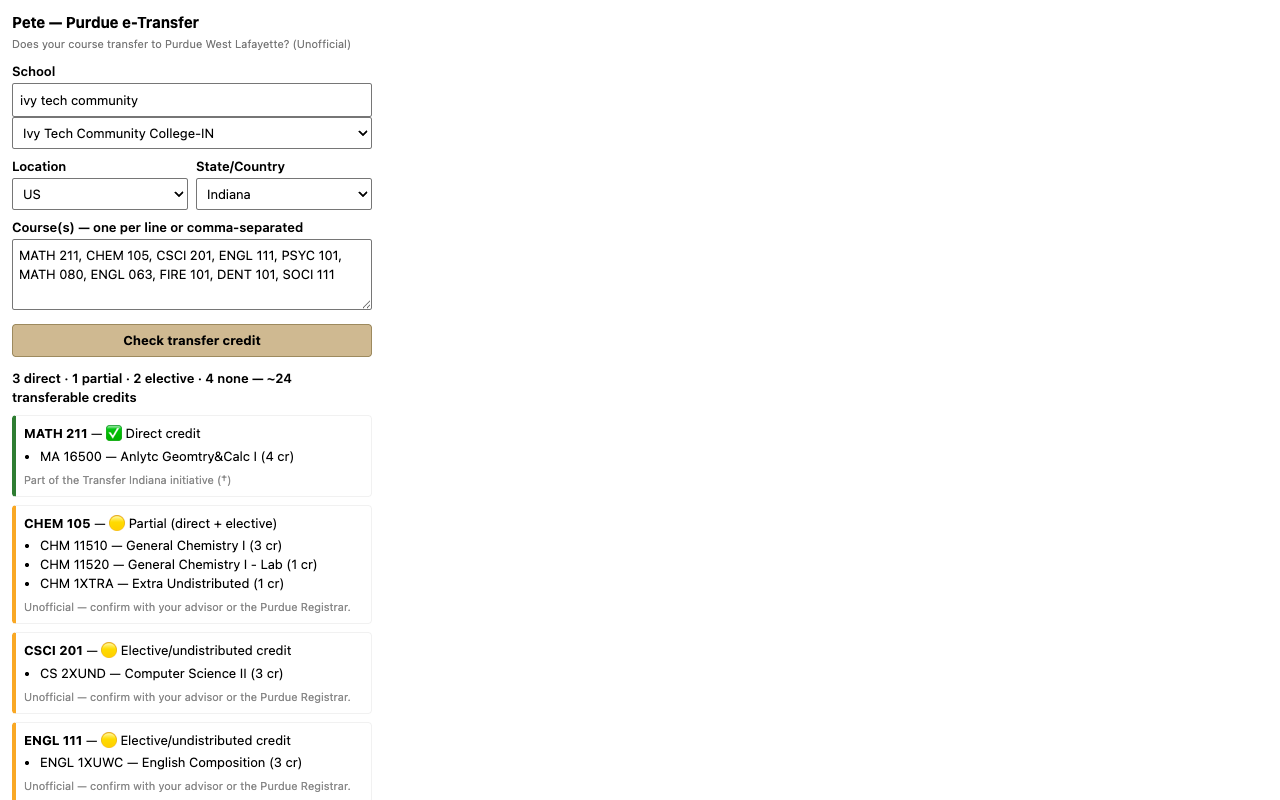
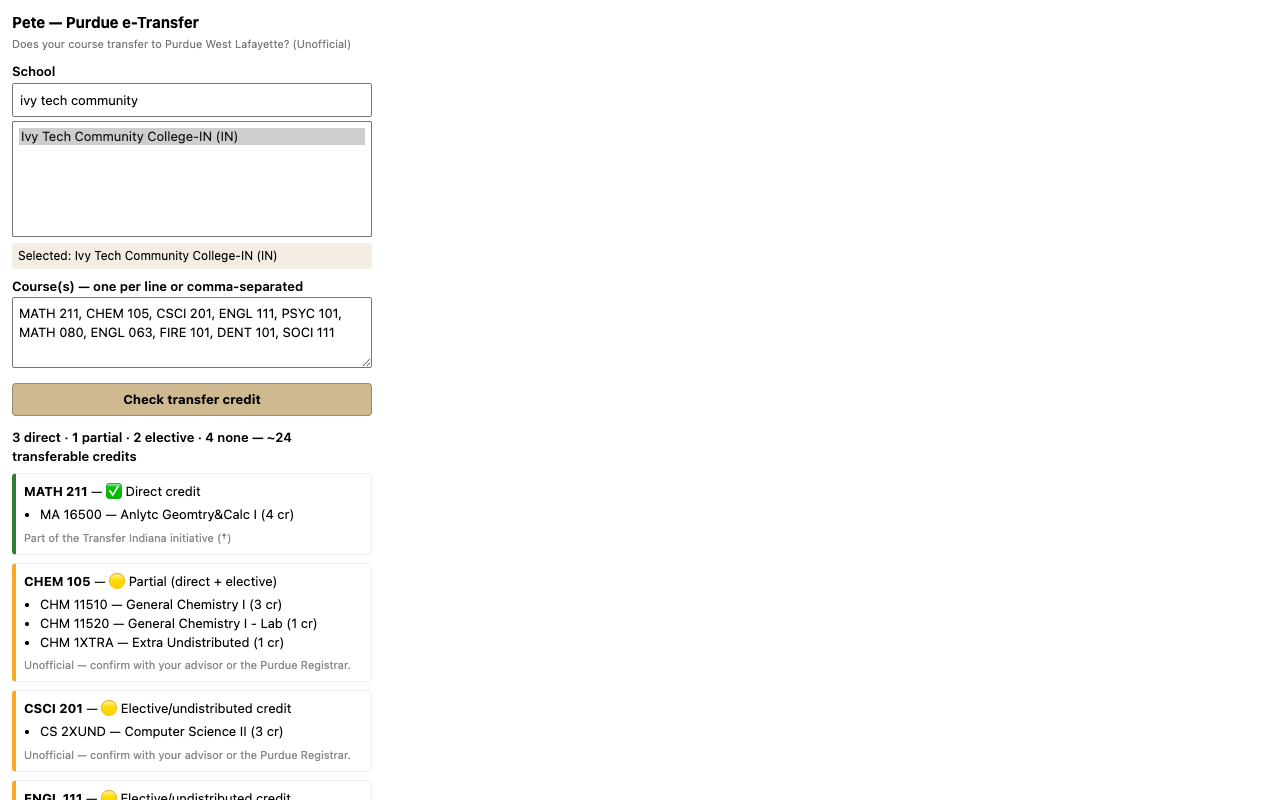
fix: school picker race + third-party catalog host detection; simplify picker UI; v0.3.0
- popup no longer fetches state list on open; picker runs off the bundled index
- async auto-detect never overwrites a search the user has typed (the clobber bug)
- removed Location/State selects — each school entry carries its own; top match
  auto-selected with a visible 'Selected: ...' confirmation
- domainToSchool resolves courseleaf/coursedog/smartcatalogiq/acalog hosts back to
  the school (UND's catalog is und-public.courseleaf.com)
- 101 unit tests + 18 E2E green

Changed region(s): [[0.0, 0.2812, 0.3125, 1.0], [0.0, 0.1562, 0.3125, 0.25]]

diff --git a/src/popup.ts b/src/popup.ts
@@ -5,33 +5,31 @@ import type { TransferReport, TransferResult } from "./types";
 
 const $ = <T extends HTMLElement>(id: string) => document.getElementById(id) as T;
 
-const locationSel = $<HTMLSelectElement>("location");
-const stateSel = $<HTMLSelectElement>("state");
 const schoolSel = $<HTMLSelectElement>("school");
 const schoolSearch = $<HTMLInputElement>("schoolSearch");
+const selectedDiv = $<HTMLDivElement>("selected");
 const coursesTa = $<HTMLTextAreaElement>("courses");
 const checkBtn = $<HTMLButtonElement>("check");
 const resultsDiv = $<HTMLDivElement>("results");
 
-/** Global search over the bundled index — every school Purdue articulates from. */
+/**
+ * The picker runs entirely off the bundled index — no network on open. The old
+ * version fetched the state list from Purdue and re-rendered when it landed,
+ * which silently wiped whatever the user had already typed (bug #12).
+ * Each school entry carries its own location/state, so the user never picks them.
+ */
 let visibleSchools: IndexedSchool[] = [];
+let selectedSchool: IndexedSchool | null = null;
+let defaultState = "IN";
 
-async function loadStates(): Promise<void> {
-  const res = await sendBg({ kind: "AJAX_LIST", type: "states", values: [locationSel.value] });
-  if ("list" in res && res.ok) {
-    stateSel.innerHTML = "";
-    for (const s of res.list) {
-      const o = document.createElement("option");
-      o.value = s.value;
-      o.textContent = s.label;
-      if (s.value === "IN") o.selected = true;
-      stateSel.append(o);
-    }
+function showSelection(): void {
+  if (selectedSchool) {
+    selectedDiv.className = "selected";
+    selectedDiv.textContent = `Selected: ${selectedSchool.n} (${selectedSchool.s})`;
+  } else {
+    selectedDiv.className = "selected none";
+    selectedDiv.textContent = "No school selected";
   }
-}
-
-function schoolsForCurrentState(): IndexedSchool[] {
-  return SCHOOL_INDEX.filter((e) => e.l === locationSel.value && e.s === stateSel.value);
 }
 
 function renderSchools(list: IndexedSchool[]): void {
@@ -40,21 +38,22 @@ function renderSchools(list: IndexedSchool[]): void {
   list.forEach((e, i) => {
     const o = document.createElement("option");
     o.value = String(i);
-    o.textContent = e.s === stateSel.value ? e.n : `${e.n} (${e.s})`;
+    o.textContent = `${e.n} (${e.s})`;
     schoolSel.append(o);
   });
+  // Auto-select the top match so "type then press Check" just works — users
+  // reasonably expect the visible first result to be the one used.
+  if (list.length > 0) {
+    schoolSel.selectedIndex = 0;
+    selectedSchool = list[0] ?? null;
+  } else {
+    selectedSchool = null;
+  }
+  showSelection();
 }
 
-/** Selecting a search hit syncs location + state so the lookup query is correct. */
-async function syncToSelectedSchool(): Promise<IndexedSchool | null> {
-  const e = visibleSchools[Number(schoolSel.value)];
-  if (!e) return null;
-  if (locationSel.value !== e.l) {
-    locationSel.value = e.l;
-    await loadStates();
-  }
-  stateSel.value = e.s;
-  return e;
+function defaultList(): IndexedSchool[] {
+  return SCHOOL_INDEX.filter((e) => e.l === "US" && e.s === defaultState);
 }
 
 function parseCourseLines(text: string): { subject: string; number: string }[] {
@@ -112,11 +111,13 @@ function render(report: TransferReport): void {
 
 checkBtn.addEventListener("click", async () => {
   const courses = parseCourseLines(coursesTa.value);
-  const school = await syncToSelectedSchool();
+  const school = selectedSchool;
   const schoolCode = school?.c ?? "";
   const schoolName = school?.n ?? "";
   if (!courses.length || !schoolCode) {
-    resultsDiv.innerHTML = `<div class="err">Pick a school and enter at least one course like “MATH 211”.</div>`;
+    resultsDiv.innerHTML = `<div class="err">${
+      schoolCode ? "Enter at least one course like “MATH 211”." : "Search for and select your school first."
+    }</div>`;
     return;
   }
   checkBtn.disabled = true;
@@ -138,31 +139,29 @@ checkBtn.addEventListener("click", async () => {
 
 schoolSearch.addEventListener("input", () => {
   const q = schoolSearch.value.trim();
-  renderSchools(q ? searchSchoolIndex(q) : schoolsForCurrentState());
+  renderSchools(q ? searchSchoolIndex(q) : defaultList());
 });
-locationSel.addEventListener("change", async () => {
-  await loadStates();
-  renderSchools(schoolsForCurrentState());
+
+schoolSel.addEventListener("change", () => {
+  selectedSchool = visibleSchools[schoolSel.selectedIndex] ?? null;
+  showSelection();
 });
-stateSel.addEventListener("change", () => renderSchools(schoolsForCurrentState()));
 
 void (async () => {
-  // Pre-fill from active tab: detected school + any highlighted course text
-  const [tab] = await chrome.tabs.query({ active: true, currentWindow: true });
-  await loadStates();
-  renderSchools(schoolsForCurrentState());
-  if (tab?.url) {
-    try {
-      const host = new URL(tab.url).hostname;
-      const res = await sendBg({ kind: "DETECT_SCHOOL", hostname: host });
-      if ("school" in res && res.ok && res.school) {
-        locationSel.value = res.school.location;
-        await loadStates();
-        stateSel.value = res.school.state;
-        renderSchools(schoolsForCurrentState());
-        const i = visibleSchools.findIndex((e) => e.c === res.school!.code);
-        if (i >= 0) schoolSel.value = String(i);
-      }
-    } catch { /* non-fatal */ }
+  // Render immediately from the bundled index; auto-detection only refines it,
+  // and never overwrites a list the user has already searched.
+  renderSchools(defaultList());
+  try {
+    const [tab] = await chrome.tabs.query({ active: true, currentWindow: true });
+    if (!tab?.url) return;
+    const res = await sendBg({ kind: "DETECT_SCHOOL", hostname: new URL(tab.url).hostname });
+    if (!("school" in res) || !res.ok || !res.school) return;
+    if (schoolSearch.value.trim() !== "") return; // user is already typing — leave them alone
+    const hit = SCHOOL_INDEX.find((e) => e.c === res.school!.code) ?? null;
+    if (!hit) return;
+    defaultState = hit.s;
+    renderSchools([hit, ...SCHOOL_INDEX.filter((e) => e.l === hit.l && e.s === hit.s && e.c !== hit.c)]);
+  } catch {
+    /* auto-detect is a convenience; the picker works without it */
   }
 })();

diff --git a/src/popup.html b/src/popup.html
@@ -24,6 +24,10 @@
   .eq { margin: 4px 0 0 0; padding-left: 16px; }
   .caveats { color: #888; font-size: 11px; margin-top: 6px; }
   .summary { font-weight: 600; margin-bottom: 8px; }
+  select[size] { margin-top: 4px; }
+  .selected { margin-top: 4px; font-size: 12px; padding: 4px 6px; border-radius: 3px;
+    background: rgba(207,185,145,.25); }
+  .selected.none { background: none; color: #999; font-style: italic; }
   .disclaimer { margin-top: 10px; font-size: 11px; color: #a15c00; }
   .err { color: #c62828; }
 </style>
@@ -32,19 +36,10 @@
   <h1>Pete — Purdue e-Transfer</h1>
   <div class="sub">Does your course transfer to Purdue West Lafayette? (Unofficial)</div>
 
-  <label for="school">School</label>
-  <input id="schoolSearch" placeholder="Search school (e.g. Ivy Tech)…" autocomplete="off" />
-  <select id="school" size="1"></select>
-  <div class="row">
-    <div>
-      <label for="location">Location</label>
-      <select id="location"><option value="US" selected>US</option><option value="Outside US">Outside US</option></select>
-    </div>
-    <div>
-      <label for="state">State/Country</label>
-      <select id="state"><option value="IN" selected>Indiana</option></select>
-    </div>
-  </div>
+  <label for="schoolSearch">School</label>
+  <input id="schoolSearch" placeholder="Search 3,000+ schools — e.g. Ivy Tech, North Dakota…" autocomplete="off" />
+  <select id="school" size="6"></select>
+  <div id="selected" class="selected">No school selected</div>
 
   <label for="courses">Course(s) — one per line or comma-separated</label>
   <textarea id="courses" rows="3" placeholder="MATH 211&#10;CSCI 201&#10;CHEM 105"></textarea>

diff --git a/src/school-map.ts b/src/school-map.ts
@@ -16,6 +16,27 @@ export interface SchoolEntry {
 
 const DOMAIN_MAP: Record<string, SchoolEntry> = rawMap as Record<string, SchoolEntry>;
 
+/**
+ * Third-party catalog platforms that host hundreds of schools' catalogs on
+ * their own domain — e.g. UND's catalog is und-public.courseleaf.com, so the
+ * school's own .edu never appears in the URL.
+ */
+const CATALOG_HOSTS = [
+  "courseleaf.com",
+  "smartcatalogiq.com",
+  "coursedog.com",
+  "acalog.com",
+  "digarc.com",
+  "elluciancloud.com",
+];
+
+/** "und-public" -> "und"; "catalog-ttu" -> "ttu" */
+function catalogSlug(label: string): string {
+  return label
+    .replace(/^(catalog|bulletin|courses?)[-_]/, "")
+    .replace(/[-_](public|next|prod|test|dev|catalog|bulletin|courses?|acalog)$/, "");
+}
+
 /** Match a hostname (or any subdomain of it) to a known school. */
 export function domainToSchool(hostname: string): SchoolEntry | null {
   const h = hostname.toLowerCase().replace(/^www\./, "");
@@ -23,6 +44,12 @@ export function domainToSchool(hostname: string): SchoolEntry | null {
   for (let i = 0; i < parts.length - 1; i++) {
     const candidate = parts.slice(i).join(".");
     const hit = DOMAIN_MAP[candidate];
+    if (hit) return hit;
+  }
+  // Third-party catalog host: derive the school slug and retry as <slug>.edu
+  if (CATALOG_HOSTS.some((host) => h.endsWith(`.${host}`)) && parts[0]) {
+    const slug = catalogSlug(parts[0]);
+    const hit = DOMAIN_MAP[`${slug}.edu`];
     if (hit) return hit;
   }
   return null;

diff --git a/tests/school-map.test.ts b/tests/school-map.test.ts
@@ -17,6 +17,18 @@ describe("domainToSchool", () => {
     expect(domainToSchool("catalog.umich.edu")?.code).toBe("001839");
     expect(domainToSchool("www.gatech.edu")?.code).toBe("005248");
   });
+  // Third-party catalog platforms host the actual course pages (bug #13)
+  it("resolves third-party catalog hosts back to the school", () => {
+    expect(domainToSchool("und-public.courseleaf.com")?.code).toBe("006878");
+    expect(domainToSchool("catalog-und.courseleaf.com")?.code).toBe("006878");
+    expect(domainToSchool("osu.smartcatalogiq.com")?.code).toBe("001592");
+    expect(domainToSchool("umich.coursedog.com")?.code).toBe("001839");
+  });
+  it("does not invent a school for unknown catalog-host slugs", () => {
+    expect(domainToSchool("nosuchschool-public.courseleaf.com")).toBeNull();
+    expect(domainToSchool("courseleaf.com")).toBeNull();
+  });
+
   it("covers 100+ top-enrollment domains, each with a real directory code", () => {
     const domains = ["asu.edu", "ucf.edu", "tamu.edu", "utexas.edu", "psu.edu", "ucla.edu",
       "berkeley.edu", "wisc.edu", "washington.edu", "rutgers.edu", "nyu.edu", "wgu.edu",

diff --git a/docs/hardest-bugs.md b/docs/hardest-bugs.md
@@ -70,3 +70,23 @@
     digit, so IU's entire catalog (M211, B110, D116, PSY C109) was unparseable — found while
     verifying a demo page, not by tests. Number now accepts an optional letter prefix, possibly
     space-separated, normalized by stripping the space. Verified live: IU MATH M211 -> MA 16500.
+
+12. **[FIXED v0.3.0] Async init silently wiped the user's school search.** The popup fetched the
+    state list from Purdue on open, then re-rendered the school list when it landed — roughly
+    3-6s later, *after* the user had already typed. Symptom reported as "doesn't select school
+    even after pressing": the search box still showed "university of north dakota" while the
+    dropdown had reverted to 48 Indiana schools. Reproduced with Playwright: results correct at
+    t=0, clobbered at t=6s. Fix: the picker now runs entirely off the bundled index (no network
+    on open), auto-detection never overwrites a non-empty search, and Location/State selects
+    were removed — each index entry already carries its own location/state, so asking the user
+    to pick them was both redundant and the source of the race. The top match is auto-selected
+    so "type, then press Check" works without touching the dropdown.
+    Lesson: async work that repaints shared UI must re-check whether the user has since acted.
+
+13. **[FIXED v0.3.0] Third-party catalog hosts defeated domain auto-detection.** UND's catalog
+    is served from `und-public.courseleaf.com`, not `und.edu`, so the mapped domain never
+    matched on the page a student is actually reading. CourseLeaf, Coursedog, SmartCatalog and
+    Acalog host catalogs for hundreds of schools this way. Fix: recognize those platform
+    domains, derive the school slug from the leftmost label (stripping `-public`, `-next`,
+    `catalog-`, …) and re-look it up as `<slug>.edu`. Unknown slugs still return null rather
+    than guessing a school.
